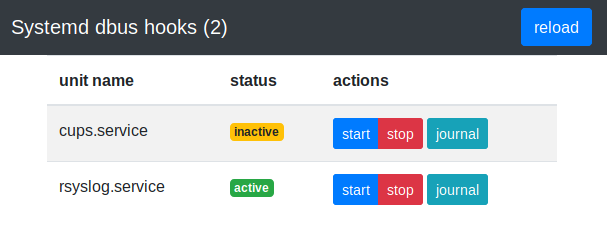
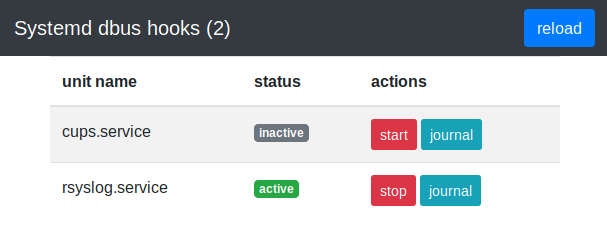
webui: choose start/stop buttons based on status

diff --git a/webui/js/sd-dbus-hooks.js b/webui/js/sd-dbus-hooks.js
@@ -29,21 +29,33 @@ $(document).ready(function(){
 
   function unitsToTable(data) {
     $.each(data, function(i, item) {
-      if (item.ActiveState == "active") {
-        badge = '<span class="badge badge-success">' + item.ActiveState + '</span>';
-      } else if (item.ActiveState == "failed") {
-        badge = '<span class="badge badge-danger">' + item.ActiveState + '</span>';
-      } else {
-        badge = '<span class="badge badge-warning">' + item.ActiveState + '</span>';
+      switch(item.ActiveState) {
+        case "active":
+          badge = '<span class="badge badge-success">' + item.ActiveState + '</span>';
+          actions = '<button type="button" class="btn btn-sm btn-danger" id="stop-btn" data-item="' + item.Name + '">stop</button>'
+          break
+        case "inactive":
+          badge = '<span class="badge badge-secondary">' + item.ActiveState + '</span>';
+          actions = '<button type="button" class="btn btn-sm btn-danger" id="start-btn" data-item="' + item.Name + '">start</button>'
+          break
+        case "failed":
+          badge = '<span class="badge badge-danger">' + item.ActiveState + '</span>';
+          actions = '<button type="button" class="btn btn-sm btn-danger" id="s-btn" data-item="' + item.Name + '">stop</button>'
+          break
+        default:
+          badge = '<span class="badge badge-warning">' + item.ActiveState + '</span>';
+          actions = '<button type="button" class="btn btn-sm btn-primary" id="start-btn" data-item="' + item.Name + '">start</button>' +
+                    '<button type="button" class="btn btn-sm btn-danger" id="stop-btn" data-item="' + item.Name + '">stop</button>'
+          break
       };
+
       $("#units-table").append(
         '<tr class="unit-item">' +
         '<td>' + item.Name + '</td>' +
         '<td>' + badge + '</td>' +
         '<td>' +
         '  <div class="btn-group" role="group" aria-label="unit-actions">' +
-        '  <button type="button" class="btn btn-sm btn-primary" id="start-btn" data-item="' + item.Name + '">start</button>' +
-        '  <button type="button" class="btn btn-sm btn-danger" id="stop-btn" data-item="' + item.Name + '">stop</button>' +
+        actions +
         '  </div>' +
         '  <button type="button" class="btn btn-sm btn-info" id="journal-btn" data-item="' + item.Name + '">journal</button>' +
         '</td>' +
